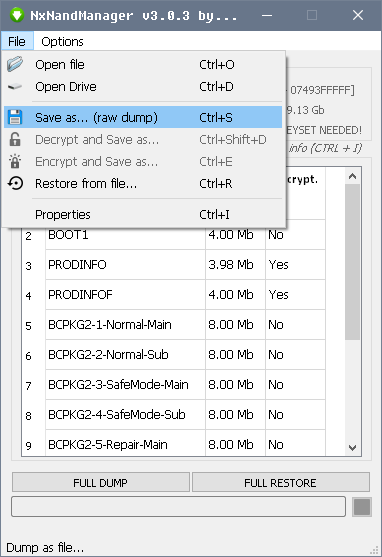
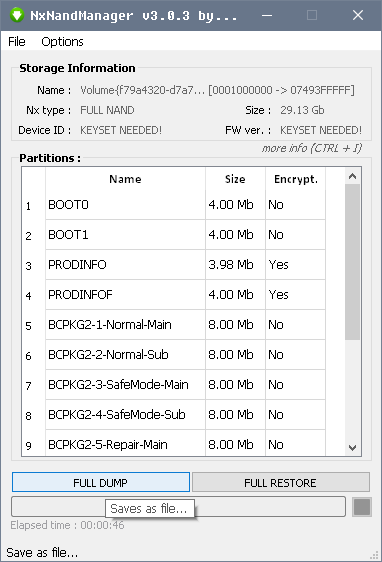
css fix

diff --git a/docs/css/custom.css b/docs/css/custom.css
@@ -28,6 +28,13 @@ div, ol, li, ul, nav {
 .admonition {
     background: transparent;
 }
+.bs-sidebar {
+    background: transparent;
+}
+
+
+.dropdown-menu>li>a:hover,.dropdown-menu>li>a:focus{color:black;text-decoration:none;background-color:#00FFFF}
+
 
 a {	
   color: #c0c0c0;
@@ -50,6 +57,11 @@ a:hover {
 a:active {
   color: #c0c0c0;
 }
+
+a:focus {
+  color: #c0c0c0;
+}
+
 
 
 

diff --git a/docs/extras/sigpatches.md b/docs/extras/sigpatches.md
@@ -1,13 +1,24 @@
-# Installing SigPatches   
+# SigPatches   
 
 !!! warning "Sigpatches are not supported by ReSwitched, Atmosphere and NH devs so do not ask them about sigpatches!"
+	Using ES or FS patches are not supported by Atmosphere or Kosmos and never will be. Please use Google to answer any questions regarding this.
 	It is in their rules that it is not allowed to talk about installing nsps on their discord servers.  
+
+&nbsp;
+
+## What are sigpatches?
+Sigpatches allow your Switch to install and run unofficial NSP files (digital titles that appear on the home menu).   
+Note that you must use CFW to launch these applications even after installation as sigpatches are always required to do so.
+
 
 &nbsp;
 
 
 I know some users do need them to install homebrew nsps to their switches in their emunand.     
 for example, I made hbmenu nsp and installed hbmenu to my home screen for easy access to full ram.      
+
+
+# Installing SigPatches 
 
 There are two methods to install Sigpatches now.  
 

diff --git a/docs/extras/backup_restore_emummc.md b/docs/extras/backup_restore_emummc.md
@@ -18,12 +18,10 @@ This is method will work on windows pcs.
 ![found drive](../extras/img/nxnand2.png)   
 6.  Select the drive and it will open like this.   
 ![drive](../extras/img/nxnand3.png)   
-7.  Go to file and select save as raw dump.  
+7.  Clock on `Full Dump` button and it will ask you to save to a place on your pc drive or external hdd.  
 ![save as raw dump](../extras/img/nxnand4.png)   
-8.  It will ask you to save to a place on your pc drive or external hdd.         
+8. it will be 2 to 3 hours for it to finish dumping/saving  
 ![saving...](../extras/img/nxnand5.png)  
-9. it will be 2 to 3 hours for it to finish dumping/saving  
-
 
 
 
